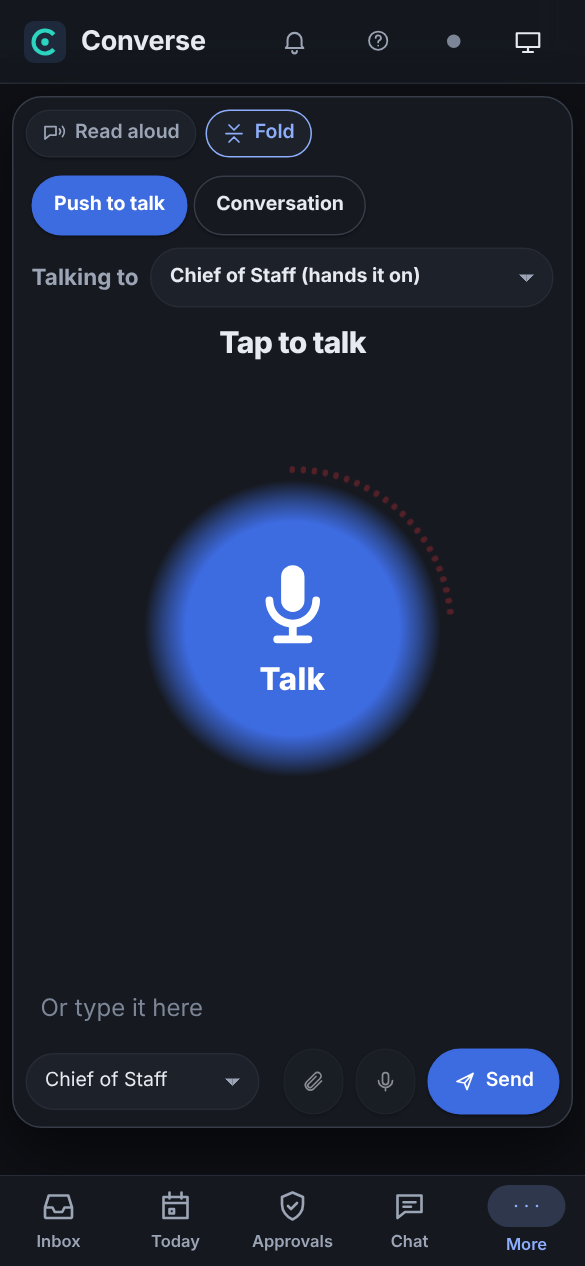
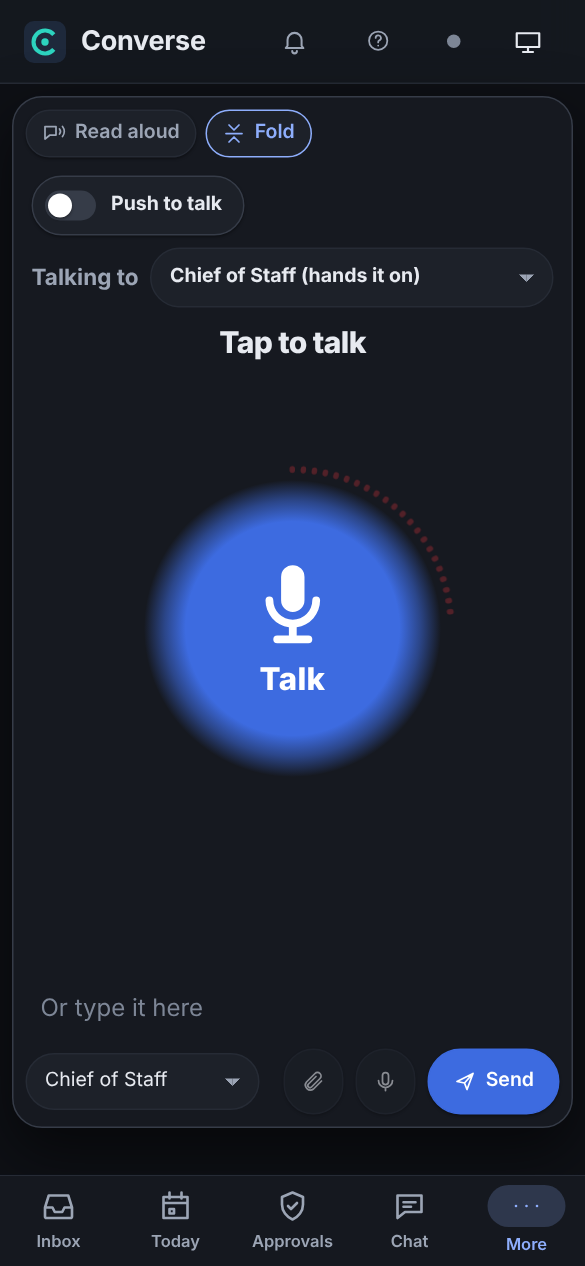
Converse: Push to talk is one on/off switch, off by default
The "Push to talk / Conversation" pair is now a single Push to talk
switch. Off (the default on a device that hasn't chosen): Converse
listens again after each answer. On: tap Talk, speak, tap Send. A
choice already saved on a device is kept, and the voice commands
("push to talk", "conversation mode") still switch it.

The e2e tests pin push to talk in their set-up, and the wake-lock test
checks that a fresh device starts with the switch off. The help topic
and its screenshots are updated.

Claude-Session: https://claude.ai/code/session_01BS6L8jc2r2FVcCnygJf9Wi

Changed region(s): [[0.0308, 0.1232, 0.5846, 0.1848]]

diff --git a/apps/web/test/drive.e2e.test.ts b/apps/web/test/drive.e2e.test.ts
@@ -71,6 +71,8 @@ const MOCK_SPEECH = () => {
     close() {}
   };
   localStorage.setItem("cc.connection", JSON.stringify({ baseUrl: "", token: "test-token" }));
+  // These tests start in push to talk (Converse's default is off; the wake-lock test checks that).
+  if (!sessionStorage.getItem("cc.test.freshMode")) localStorage.setItem("cc.drive.mode", "push");
 };
 
 type Calls = { method: string; path: string; body: unknown }[];
@@ -234,7 +236,8 @@ describe.skipIf(!existsSync(CHROMIUM))("Drive page (Playwright, mocked speech)",
     expect(calls.filter((c) => c.path === "/proposals/p1/approve")).toHaveLength(1);
 
     // Conversational chat: the question is answered without a button press, into the same task.
-    await page.getByRole("button", { name: "Conversation" }).click();
+    await page.getByRole("switch", { name: "Push to talk" }).click();
+    expect(await page.getByRole("switch", { name: "Push to talk" }).getAttribute("aria-checked")).toBe("false");
     expect(await page.evaluate(() => localStorage.getItem("cc.drive.mode"))).toBe("conversational");
     await sayNext("shop: has order 1042 shipped?");
     await sayNext("the one for Jane");
@@ -398,6 +401,8 @@ describe.skipIf(!existsSync(CHROMIUM))("Drive page (Playwright, mocked speech)",
     const page = await browser.newPage();
     const errors: string[] = [];
     page.on("pageerror", (e) => errors.push(e.message));
+    // A device that never chose: Converse starts with push to talk off.
+    await page.addInitScript(() => sessionStorage.setItem("cc.test.freshMode", "1"));
     await page.addInitScript(MOCK_SPEECH);
     // A recording Screen Wake Lock: counts requests, and how many are still held.
     await page.addInitScript(() => {
@@ -439,6 +444,7 @@ describe.skipIf(!existsSync(CHROMIUM))("Drive page (Playwright, mocked speech)",
     // The text box stays, as another way to give Drive a command; Drive's options are in Settings now.
     expect(await page.locator(".composer textarea").count()).toBe(1);
     expect(await page.locator(".drive details").count()).toBe(0);
+    expect(await page.getByRole("switch", { name: "Push to talk" }).getAttribute("aria-checked")).toBe("false");
     await expect.poll(async () => (await wake()).held).toBe(1);
     // Typed in the chat box while driving: Drive handles it (here, the briefing) instead of the chat.
     await page.locator(".composer textarea").fill("what's new");

diff --git a/apps/web/src/pages/Drive.tsx b/apps/web/src/pages/Drive.tsx
@@ -78,7 +78,8 @@ const approvalOf = (p: NonNullable<NextApproval["proposal"]>): Approval => ({
  */
 export function Drive({ api, feed, commandRef }: { api: Api; feed: LiveFeed; commandRef?: MutableRefObject<((text: string) => void) | null> }) {
   const [state, dispatch] = useReducer(driveReducer, undefined, () =>
-    initialDriveState(readPref(PREFS.mode) === "conversational" ? "conversational" : "push", readPref(PREFS.followUp) === "1"),
+    // Push to talk is off unless chosen: Converse listens again after each answer.
+    initialDriveState(readPref(PREFS.mode) === "push" ? "push" : "conversational", readPref(PREFS.followUp) === "1"),
   );
   const stateRef = useRef(state);
   stateRef.current = state;
@@ -591,19 +592,17 @@ export function Drive({ api, feed, commandRef }: { api: Api; feed: LiveFeed; com
   return (
     <section className={`drive phase-${state.phase} viz-${viz}`} aria-label="Converse">
       <header className="drive-bar">
-        <div className="drive-modes" role="group" aria-label="Voice mode">
-          <button type="button" aria-pressed={state.mode === "push"} className={state.mode === "push" ? "primary" : ""} onClick={() => setMode("push")}>
-            Push to talk
-          </button>
-          <button
-            type="button"
-            aria-pressed={state.mode === "conversational"}
-            className={state.mode === "conversational" ? "primary" : ""}
-            onClick={() => setMode("conversational")}
-          >
-            Conversation
-          </button>
-        </div>
+        {/* Push to talk on: tap, speak, tap Send. Off (the default): it listens again after each answer. */}
+        <button
+          type="button"
+          role="switch"
+          aria-checked={state.mode === "push"}
+          className={`drive-push ${state.mode === "push" ? "is-on" : ""}`}
+          onClick={() => setMode(state.mode === "push" ? "conversational" : "push")}
+        >
+          <span className="switch" aria-hidden="true" />
+          Push to talk
+        </button>
       </header>
 
       {roles.length > 0 && (

diff --git a/apps/web/src/styles.css b/apps/web/src/styles.css
@@ -2708,12 +2708,47 @@ a.stat:hover {
   align-items: center;
   gap: 8px;
 }
-.drive-modes {
-  display: flex;
-  gap: 4px;
+/* Push to talk: one on/off switch (off by default, when Converse keeps listening). */
+.drive .drive-push {
+  display: inline-flex;
+  align-items: center;
+  gap: 10px;
+  padding: 6px 14px 6px 8px;
+  background: var(--surface-2);
+  color: var(--text);
 }
-.drive-modes button {
-  padding: 6px 14px;
+.drive-push .switch {
+  position: relative;
+  width: 34px;
+  height: 20px;
+  flex-shrink: 0;
+  border-radius: 10px;
+  background: var(--border-strong);
+  transition: background 150ms ease;
+}
+.drive-push .switch::after {
+  content: "";
+  position: absolute;
+  top: 2px;
+  left: 2px;
+  width: 16px;
+  height: 16px;
+  border-radius: 50%;
+  background: #fff;
+  box-shadow: var(--shadow-1);
+  transition: transform 150ms ease;
+}
+.drive-push.is-on .switch {
+  background: var(--accent-solid);
+}
+.drive-push.is-on .switch::after {
+  transform: translateX(14px);
+}
+@media (prefers-reduced-motion: reduce) {
+  .drive-push .switch,
+  .drive-push .switch::after {
+    transition: none;
+  }
 }
 /* Who requests go to: big enough to change at a glance, before setting off. */
 .drive-talkto {
